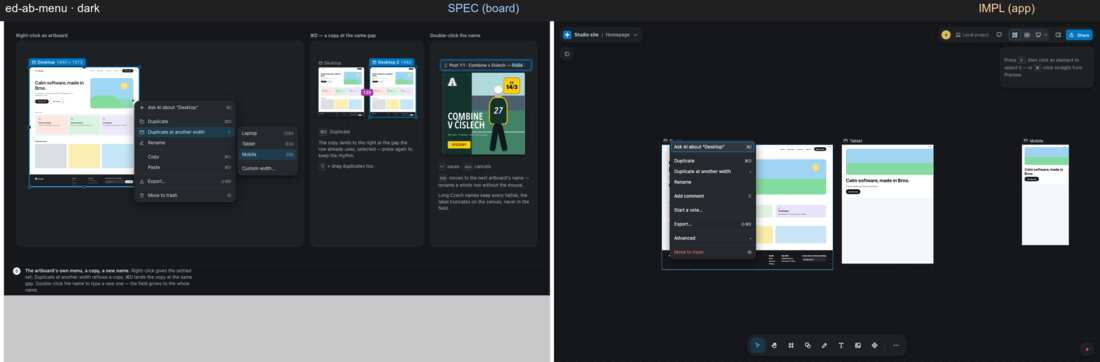
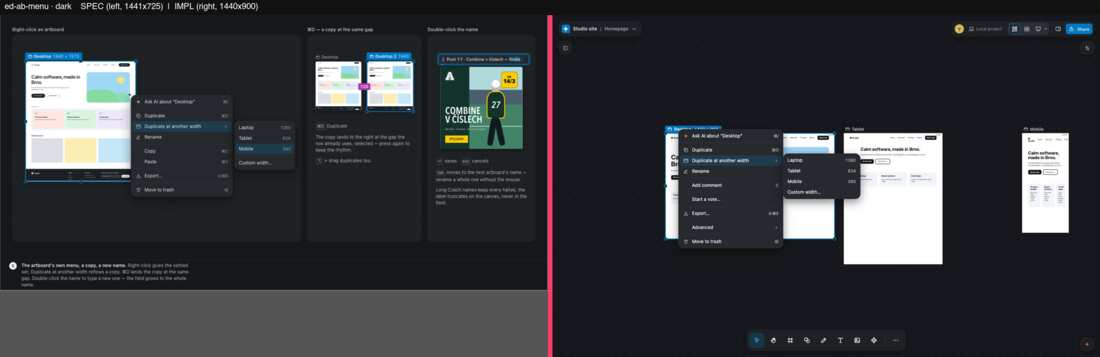
P8-C3 stage D: re-shoot 04 (11 ids), 01 cf-duplicate-width, 14 ed-ab-menu (IMPL, both themes); context menus 268/292 wide

diff --git a/apps/studio/context-menu.tsx b/apps/studio/context-menu.tsx
@@ -209,7 +209,8 @@ const MENU_CSS = `
   border-radius: 14px;
   box-shadow: 0 8px 24px var(--maude-chrome-shadow, color-mix(in oklab, #1c1917 10%, transparent)), inset 0 0 0 0.5px var(--maude-chrome-border, rgba(0,0,0,0.08));
   padding: 4px;
-  min-width: 220px;
+  /* 14: the artboard menu is drawn 268 wide, the object menu 292 */
+  min-width: 268px;
   font-family: var(--maude-chrome-font-body, system-ui, sans-serif);
   font-size: 12px;
   line-height: 1.42;
@@ -245,6 +246,7 @@ const MENU_CSS = `
 .dc-context-menu .dc-menu-item[aria-expanded="true"] {
   background: var(--maude-hud-accent-muted, color-mix(in oklab, var(--maude-chrome-fg-0, #1c1917) 8%, transparent));
 }
+.dc-context-menu[data-target="element"] { min-width: 292px; }
 .dc-context-menu:focus { outline: none; }
 .dc-context-menu .dc-menu-item:focus-visible {
   /* fix-photo-editor-followup-debt Task 16 — was outline: none (an
@@ -456,6 +458,7 @@ export function ContextMenuView({
             : 'Canvas actions'
       }
       data-esc-owner=""
+      data-target={target.kind}
       style={{ left: pos.x, top: pos.y }}
     >
       {visibleSections.map((section, si) => {

diff --git a/.ai/plans/notes/v2-evidence/phase8-fidelity/04-modes/INDEX.md b/.ai/plans/notes/v2-evidence/phase8-fidelity/04-modes/INDEX.md
@@ -104,3 +104,7 @@ Re-shoot of the IMPL side on tip 6d19daa9a (stage C round 2 merged), both themes
 | `md-edge-mixed` | IMPL re-shot, SPEC reused | IMPL re-shot, SPEC reused |
 | `md-edge-offline` | unreachable (Offline Present with a missing clip is a desktop-shell state (Presenter view).) | unreachable (same) |
 | `md-esc` | IMPL re-shot, SPEC reused | IMPL re-shot, SPEC reused |
+
+## Round 3 re-shoot (p8-c3-modes)
+
+IMPL re-shot after the round-3 modes / menus fixes; the committed <id>-<theme>.jpg pairs are overwritten for: md-model, md-annotate, md-preview, md-preview-follow, md-preview-combine, md-inspect, md-comment, md-draw, md-present-menu, md-edge-ai, md-esc. No match is judged here. md-edge-ai is shot in the board's own state (the prompt asked in Edit, then Preview folds the panels); md-draw-dark is the stage-D frame of the same code (its click timed out on the second run).

diff --git a/.ai/plans/notes/v2-evidence/phase8-fidelity/01-create-flow/INDEX.md b/.ai/plans/notes/v2-evidence/phase8-fidelity/01-create-flow/INDEX.md
@@ -67,3 +67,7 @@ Re-shoot of the IMPL side on `feat/maude-v2` tip 2739edc35 (stage C round 2 merg
 | `cf-status-words` | re-shot | re-shot | IMPL re-shot on the current tip; SPEC reused |
 | `cf-render-error` | re-shot | re-shot | IMPL re-shot on the current tip; SPEC reused |
 | `cf-offline-create` | re-shot | re-shot | IMPL re-shot on the current tip; SPEC reused |
+
+## Round 3 re-shoot (p8-c3-modes)
+
+IMPL re-shot after the round-3 modes / menus fixes; the committed <id>-<theme>.jpg pairs are overwritten for: cf-duplicate-width. No match is judged here. Shot on the 04 fixture (Homepage, Desktop artboard) with the left panel folded; the SPEC image is the stage-A one.

diff --git a/.ai/plans/notes/v2-evidence/phase8-fidelity/14-editing/INDEX.md b/.ai/plans/notes/v2-evidence/phase8-fidelity/14-editing/INDEX.md
@@ -132,3 +132,7 @@ Re-shot 50 of 52 pairs; 2 unreachable. SPEC side: `.design/ui/v2/14 Editing.*` i
 | `ed-text-edit` | light | re-shot | spec reused (board unchanged since stage A) |
 | `ed-text-style` | dark | re-shot | spec reused (board unchanged since stage A) |
 | `ed-text-style` | light | re-shot | spec reused (board unchanged since stage A) |
+
+## Round 3 re-shoot (p8-c3-modes)
+
+IMPL re-shot after the round-3 modes / menus fixes; the committed <id>-<theme>.jpg pairs are overwritten for: ed-ab-menu. No match is judged here. Shot on the 04 fixture (Homepage, Desktop artboard) with the left panel folded; the SPEC image is the stage-A one.
